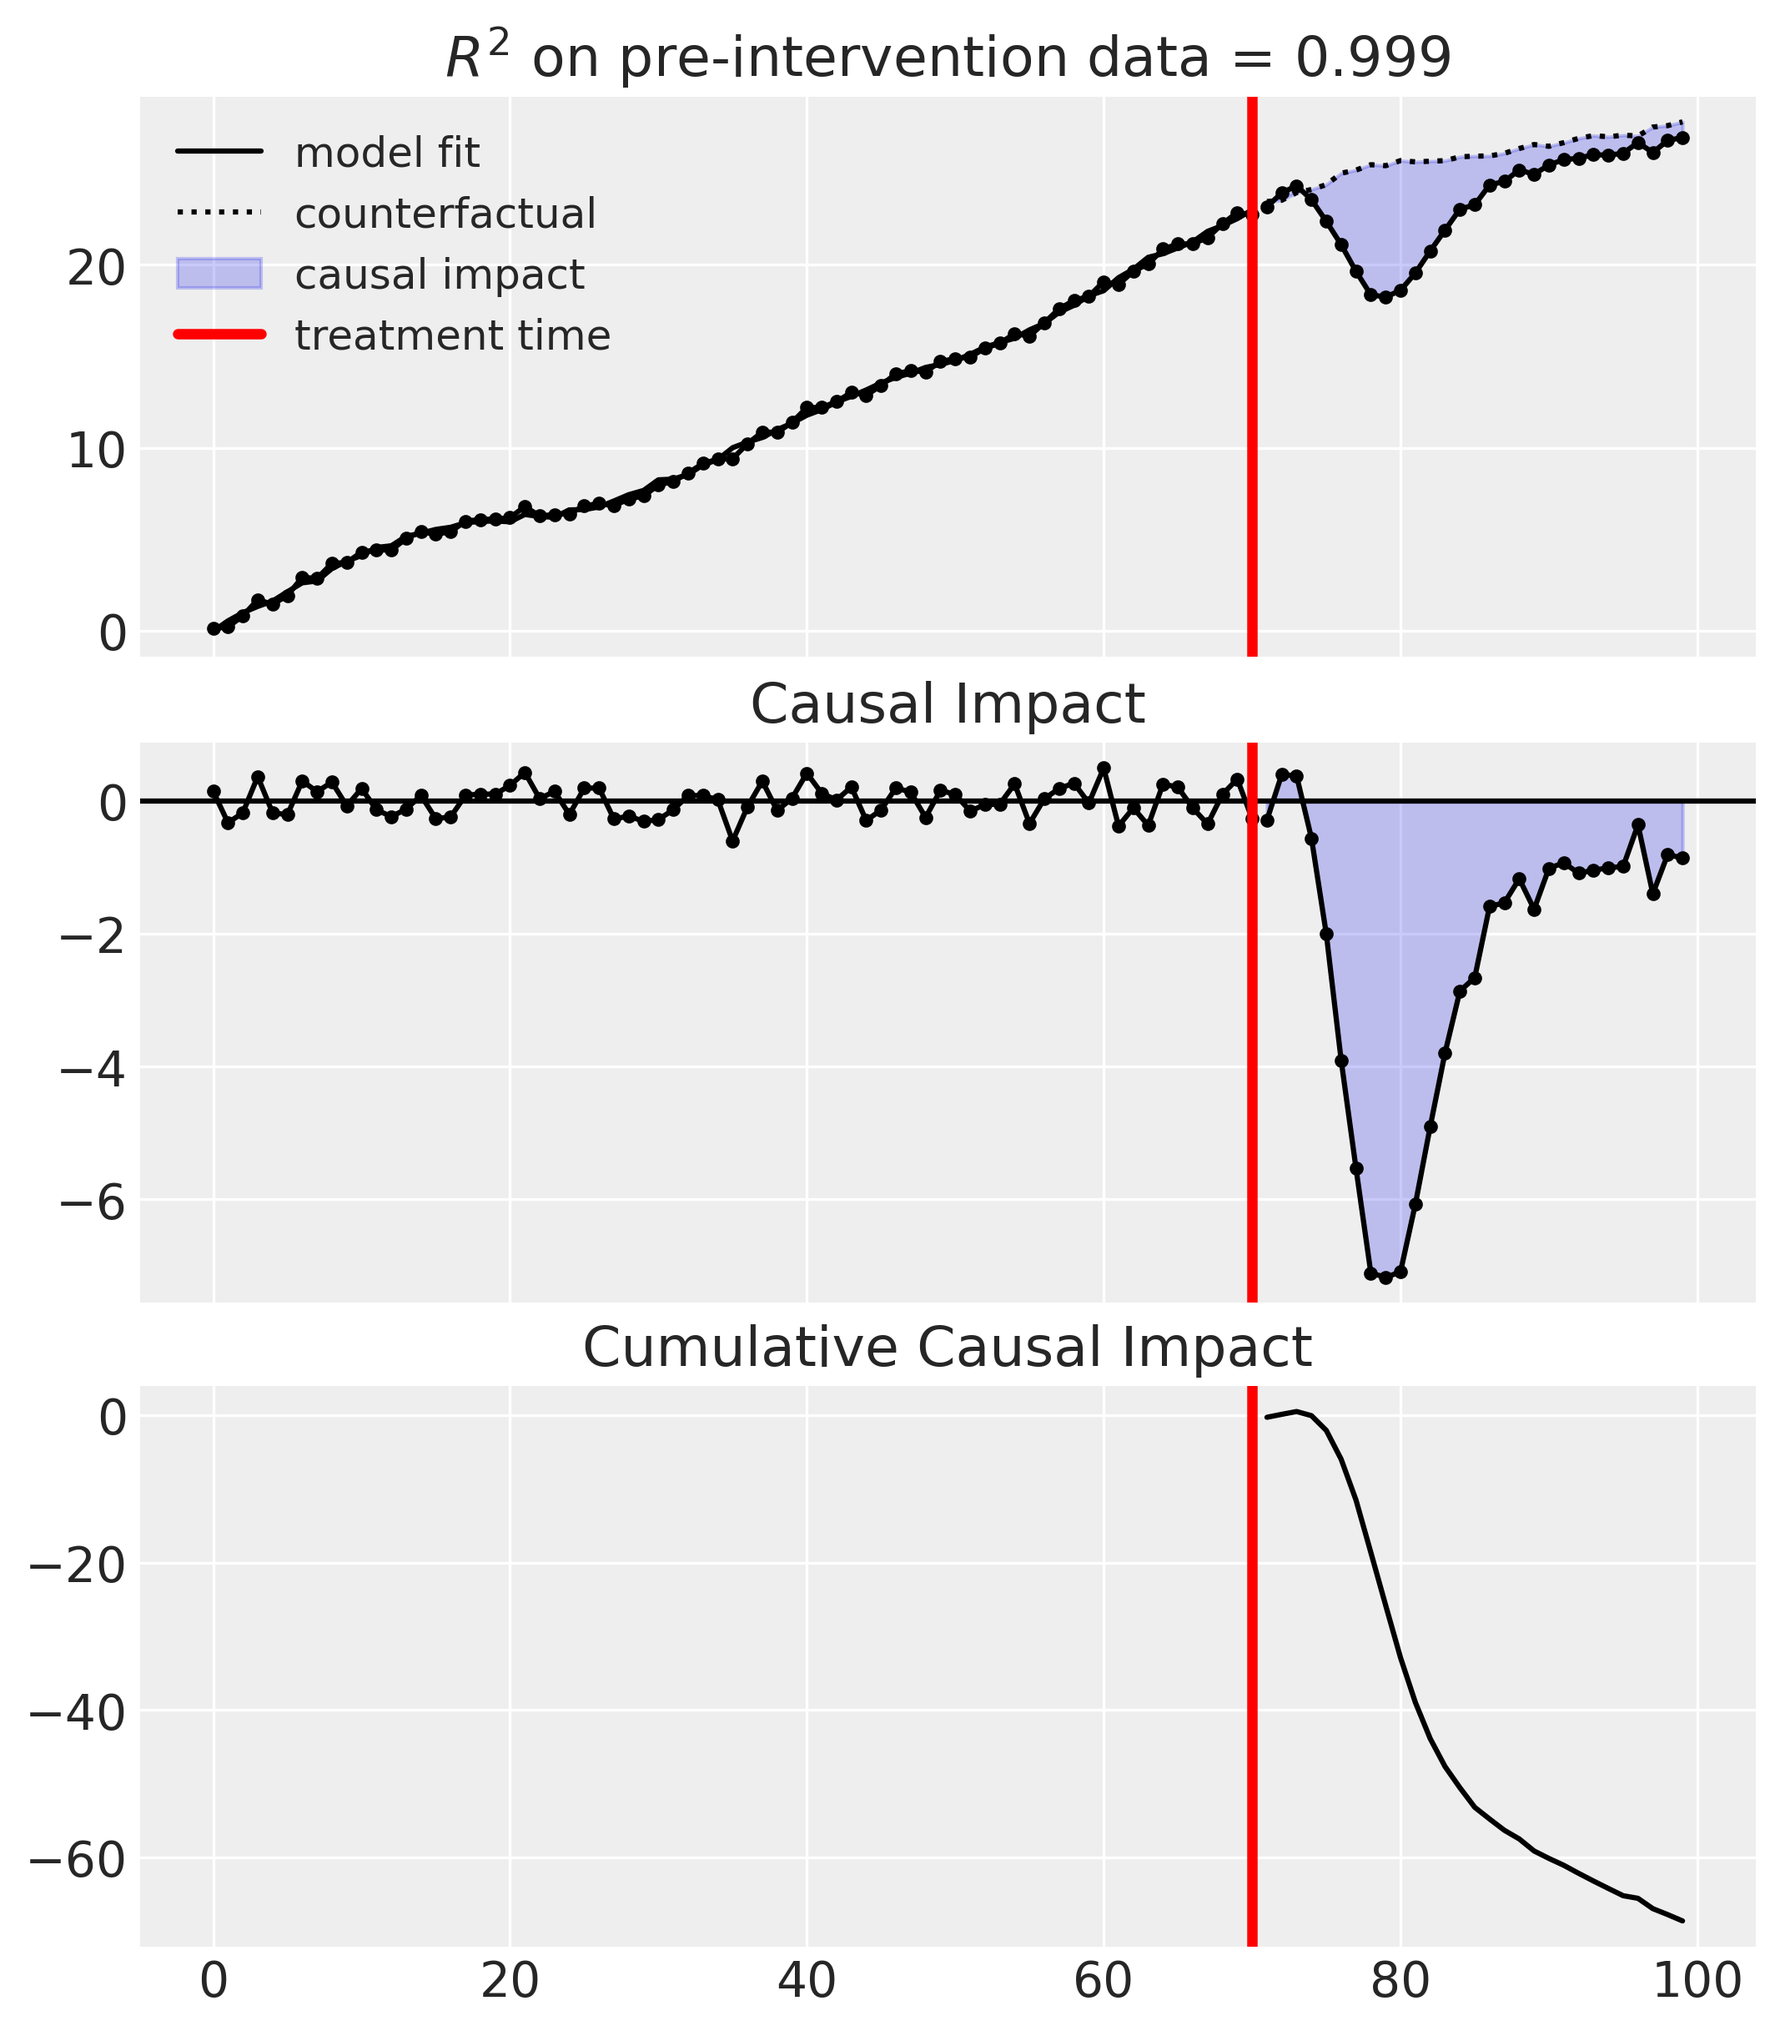
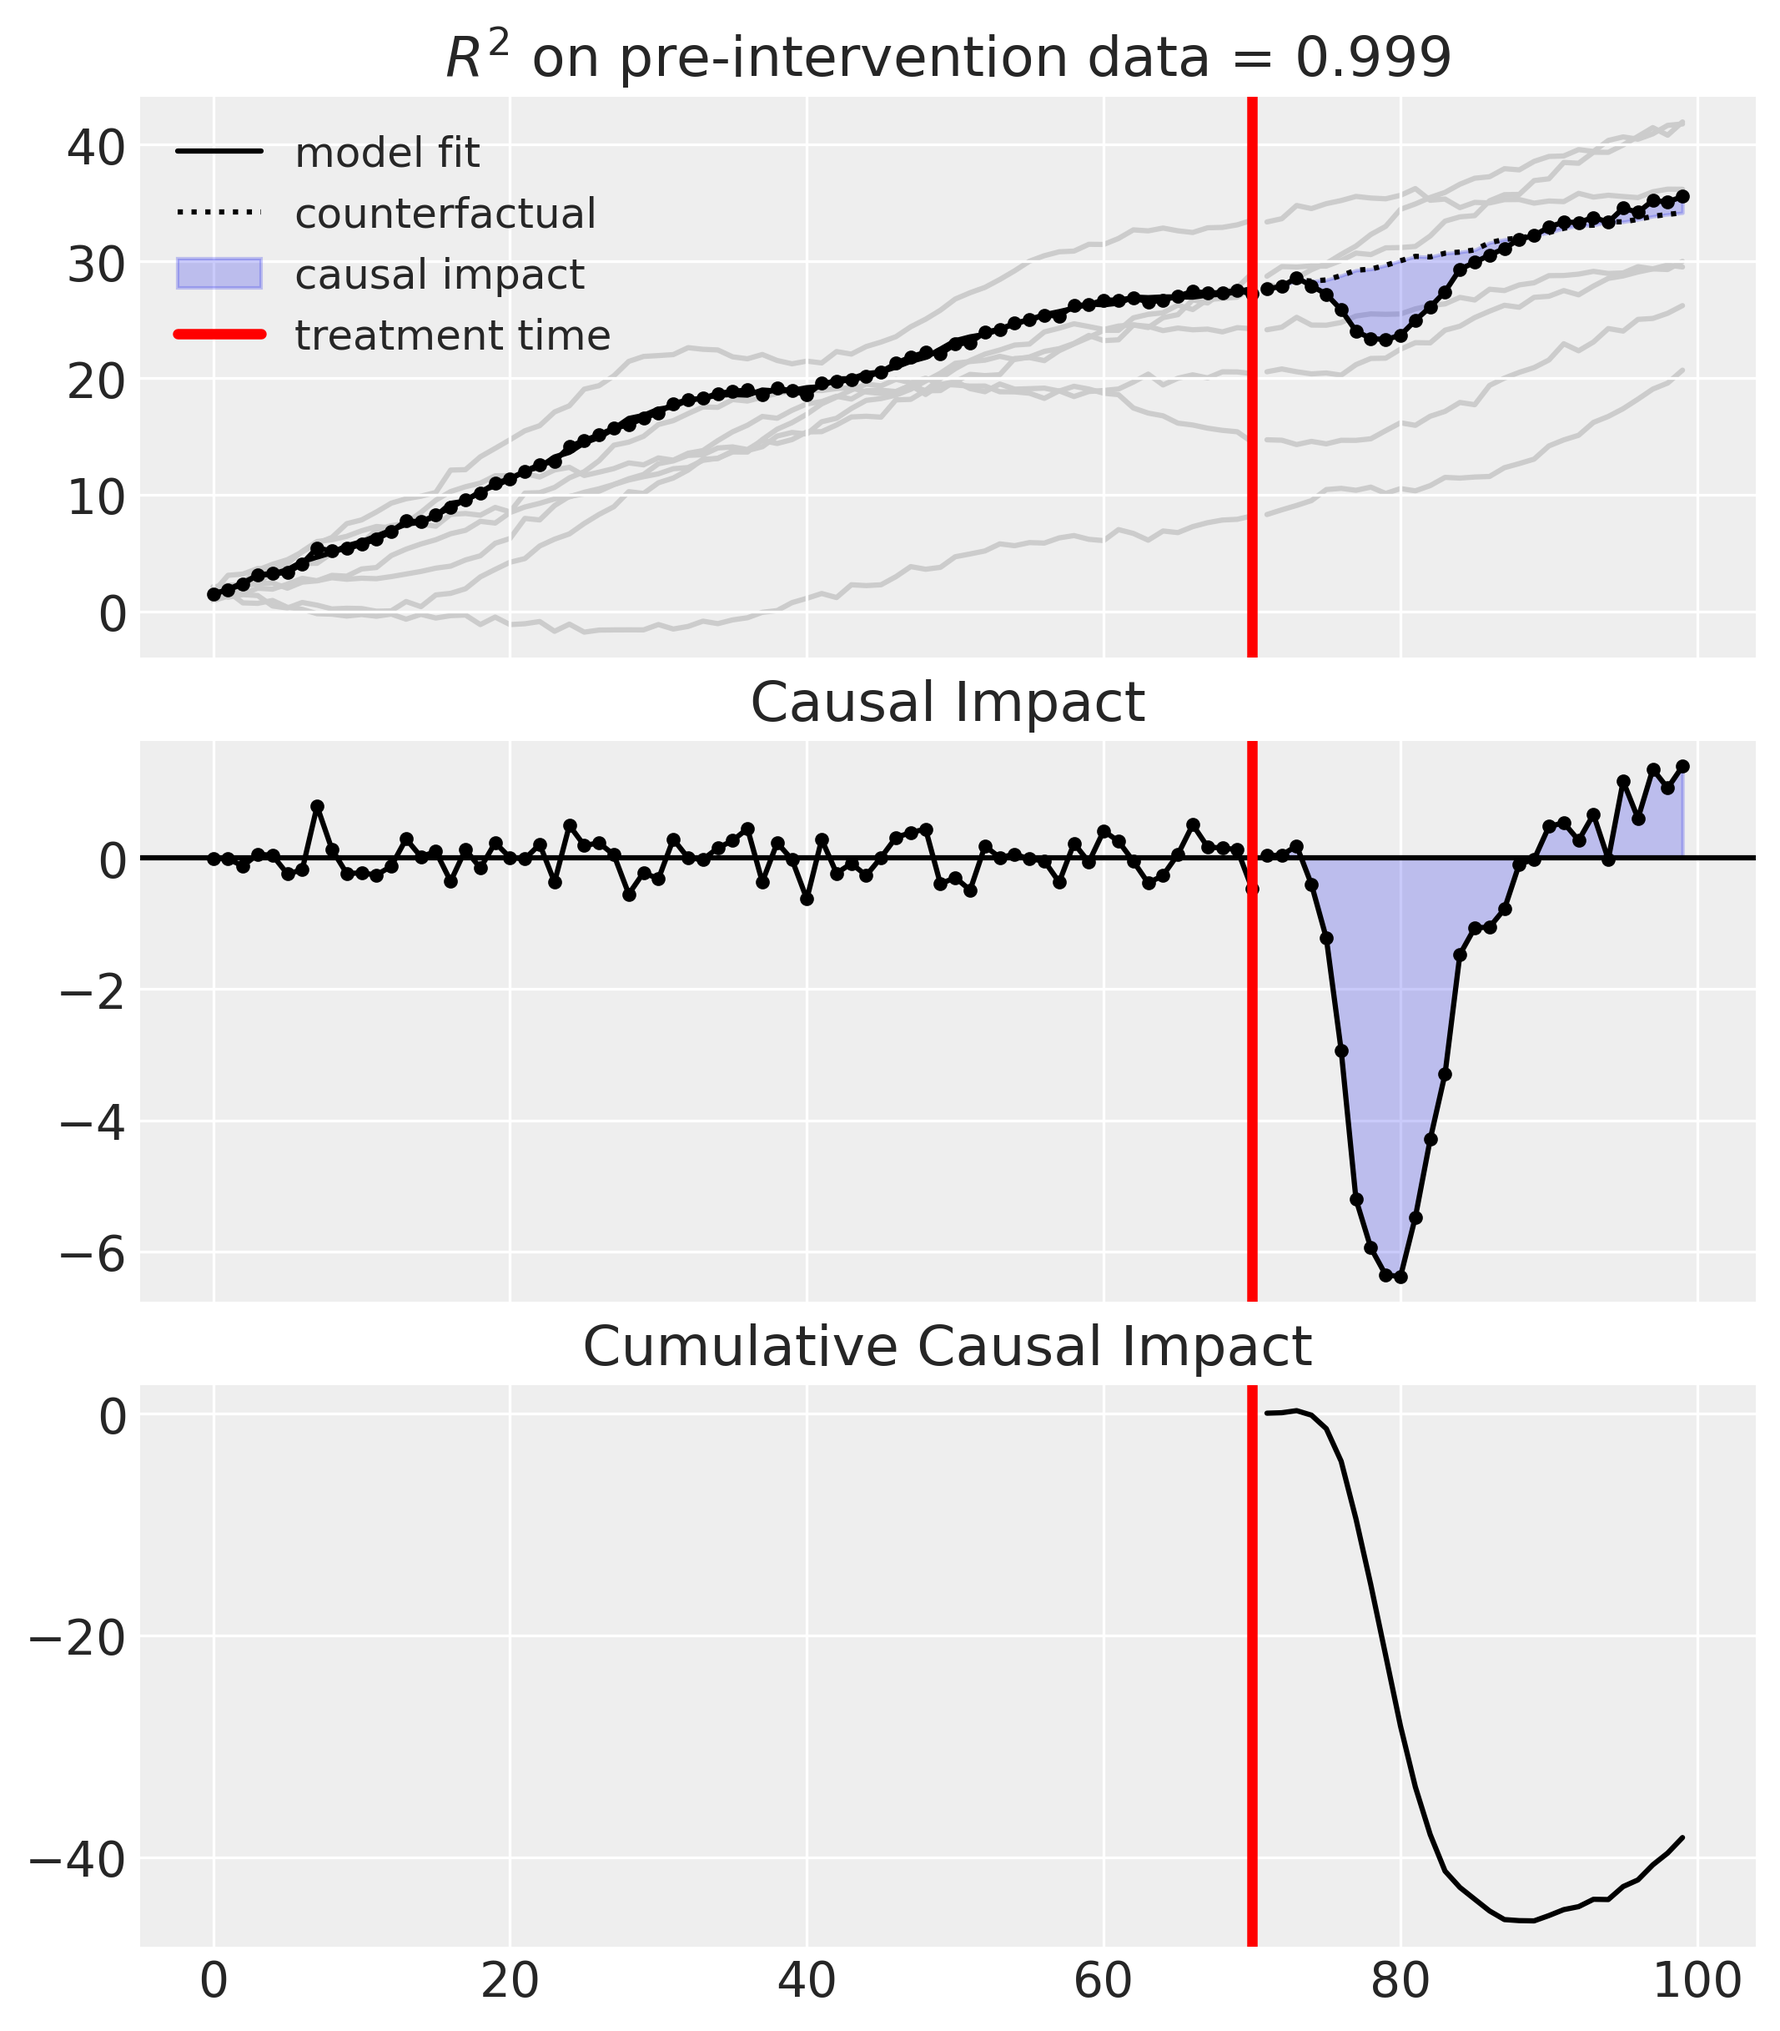
#10 add untreated units to the synthetic control plot

diff --git a/causal_impact/skl.py b/causal_impact/skl.py
@@ -132,7 +132,12 @@ class InterruptedTimeSeries(TimeSeriesExperiment):
 
 
 class SyntheticControl(TimeSeriesExperiment):
-    pass
+    def plot(self):
+        fig, ax = super().plot()
+        # plot control units as well
+        ax[0].plot(self.datapre.index, self.pre_X, "-", c=[0.8, 0.8, 0.8], zorder=-1)
+        ax[0].plot(self.datapost.index, self.post_X, "-", c=[0.8, 0.8, 0.8], zorder=-1)
+        return (fig, ax)
 
 
 class DifferenceInDifferences(ExperimentalDesign):
